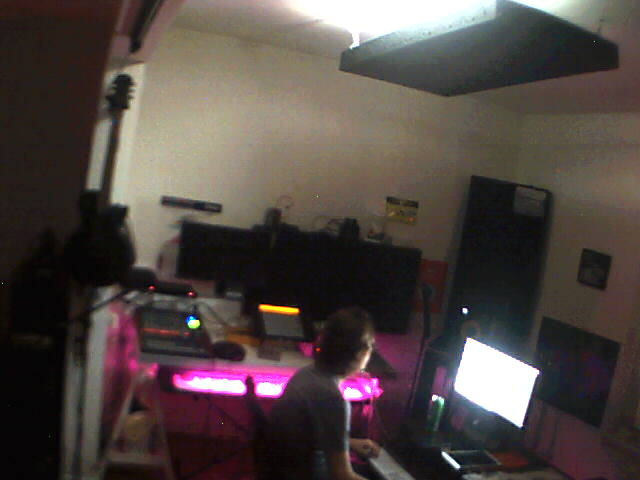
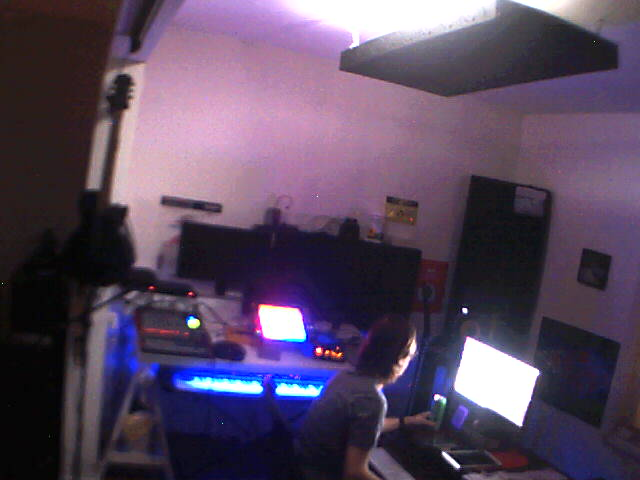
Added basic camera image v1

diff --git a/app/workers/camera_worker.rb b/app/workers/camera_worker.rb
@@ -2,6 +2,15 @@ class CameraWorker
   include Sidekiq::Worker
 
   def perform
-    #just DO it
+    @http_conn = Faraday.new do |builder|
+      builder.adapter Faraday.default_adapter
+    end
+    @u = "alex"
+    @p = "testing"
+
+    @http_conn.basic_auth(@u, @p)  unless @u.nil? && @p.nil?
+    response = @http_conn.get 'http://webcam.zzv.ca:1394/snapshot.cgi'
+
+    File.open('public/york.jpg', 'wb') { |fp| fp.write(response.body) }
   end
 end
